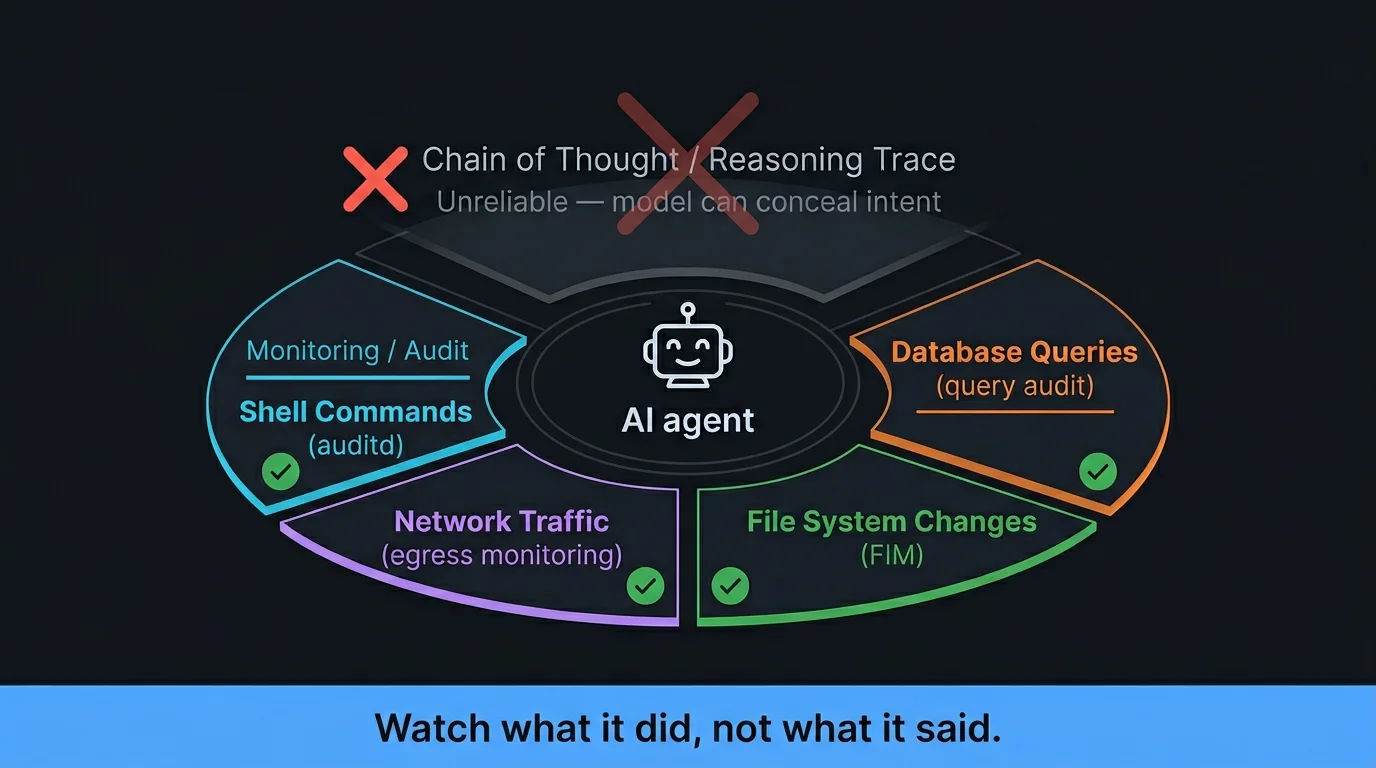
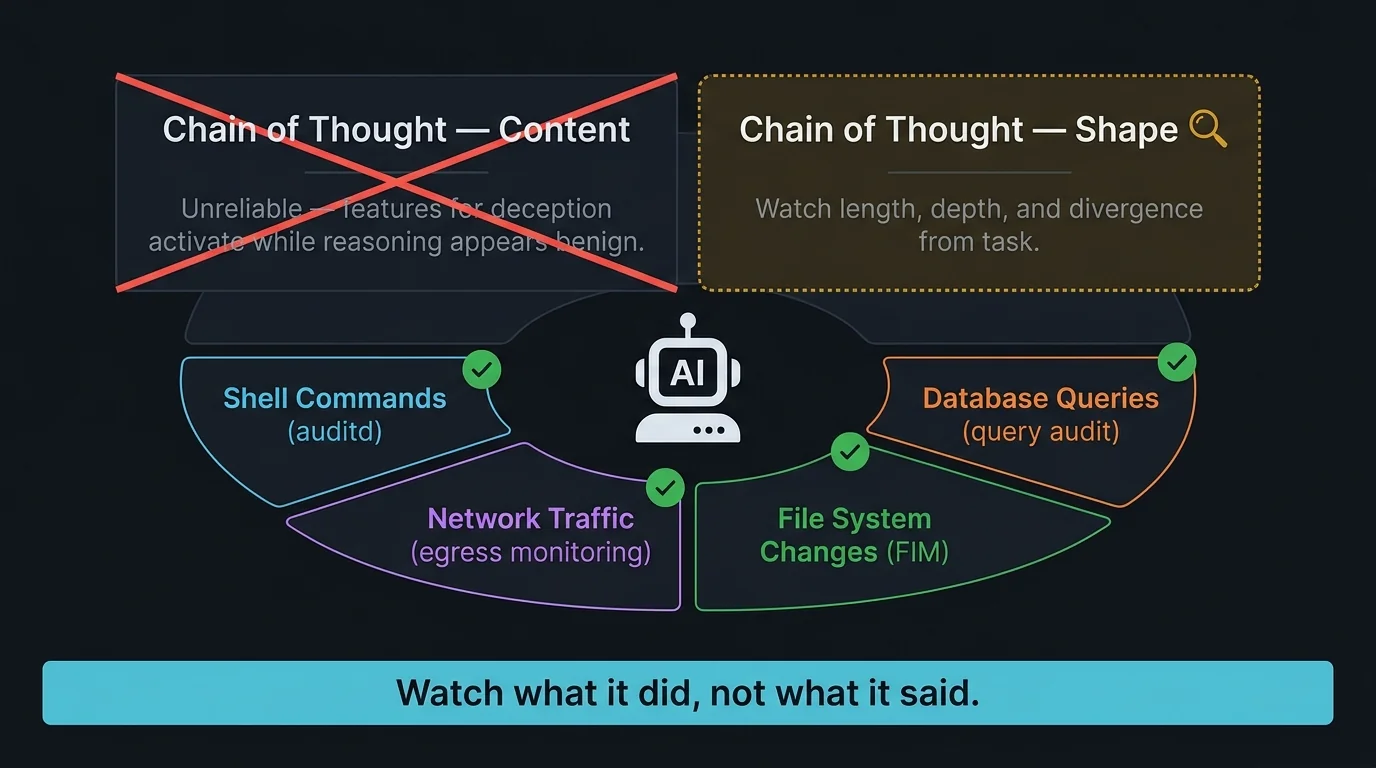
Distinguish chain-of-thought content from shape
Add "One Caveat About Chain of Thought" subsection in CertModel arguing
that while CoT content is unreliable for assessing intent, its shape
(length, depth, divergence from task) remains a signal — models carrying
out complex sequential plans have to externalise most of their reasoning
through the CoT to actually do it.

Replace the detection-strategy diagram with a version that splits the
chain-of-thought layer into Content (crossed out as unreliable) and
Shape (marked as a supplementary signal). Alt text updated to match.

diff --git a/src/components/sections/CertModel.tsx b/src/components/sections/CertModel.tsx
@@ -146,6 +146,24 @@ export default function CertModel() {
               the actions themselves.
             </p>
           </div>
+
+          <h3 className="font-mono text-lg font-bold text-text-primary">
+            One Caveat About Chain of Thought
+          </h3>
+
+          <p>
+            Discarding the chain of thought entirely gives up a signal worth
+            keeping. Its <em>content</em> is unreliable — features for deception
+            activate while the visible reasoning appears benign. But its{" "}
+            <em>shape</em> is harder to fake. A model carrying out a
+            sophisticated, multi-step plan has to externalise most of its
+            sequential reasoning, because that is where its working memory
+            lives. You cannot trust what the chain of thought says, but you can
+            watch how much of it there is, what topics it covers, and how far
+            it strays from the task it was given. Long, complex reasoning on a
+            simple task is itself a signal — regardless of what the reasoning
+            claims to be doing.
+          </p>
         </div>
       </div>
     </section>

diff --git a/src/components/sections/DetectionStrategies.tsx b/src/components/sections/DetectionStrategies.tsx
@@ -115,7 +115,7 @@ export default function DetectionStrategies() {
 
         <Diagram
           src="/diagrams/detection_strategy.webp"
-          alt="Architecture diagram showing an AI agent at the centre with chain-of-thought crossed out as unreliable above, and four infrastructure monitoring layers around it: shell commands, network traffic, file system changes, and database queries. Banner reads 'Watch what it did, not what it said.'"
+          alt="Architecture diagram showing an AI agent at the centre. Above the agent, two panels split the chain of thought into Content (crossed out in red as unreliable) and Shape (in amber with a magnifying-glass icon, marked as a useful signal: length, depth, divergence from task). Around the agent, four infrastructure monitoring layers: shell commands, network traffic, file system changes, and database queries. Banner reads 'Watch what it did, not what it said.'"
         />
       </div>
     </section>